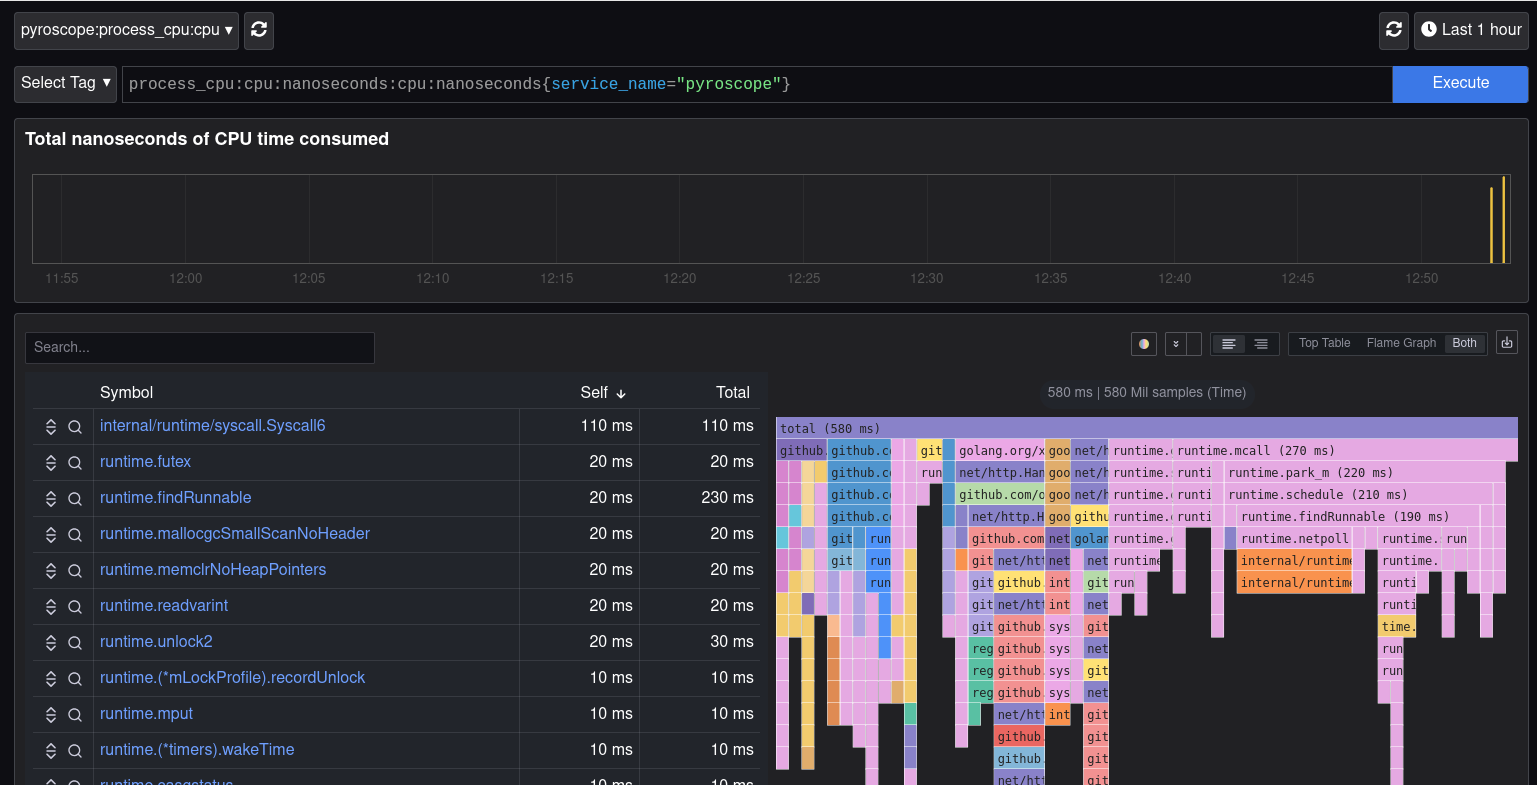
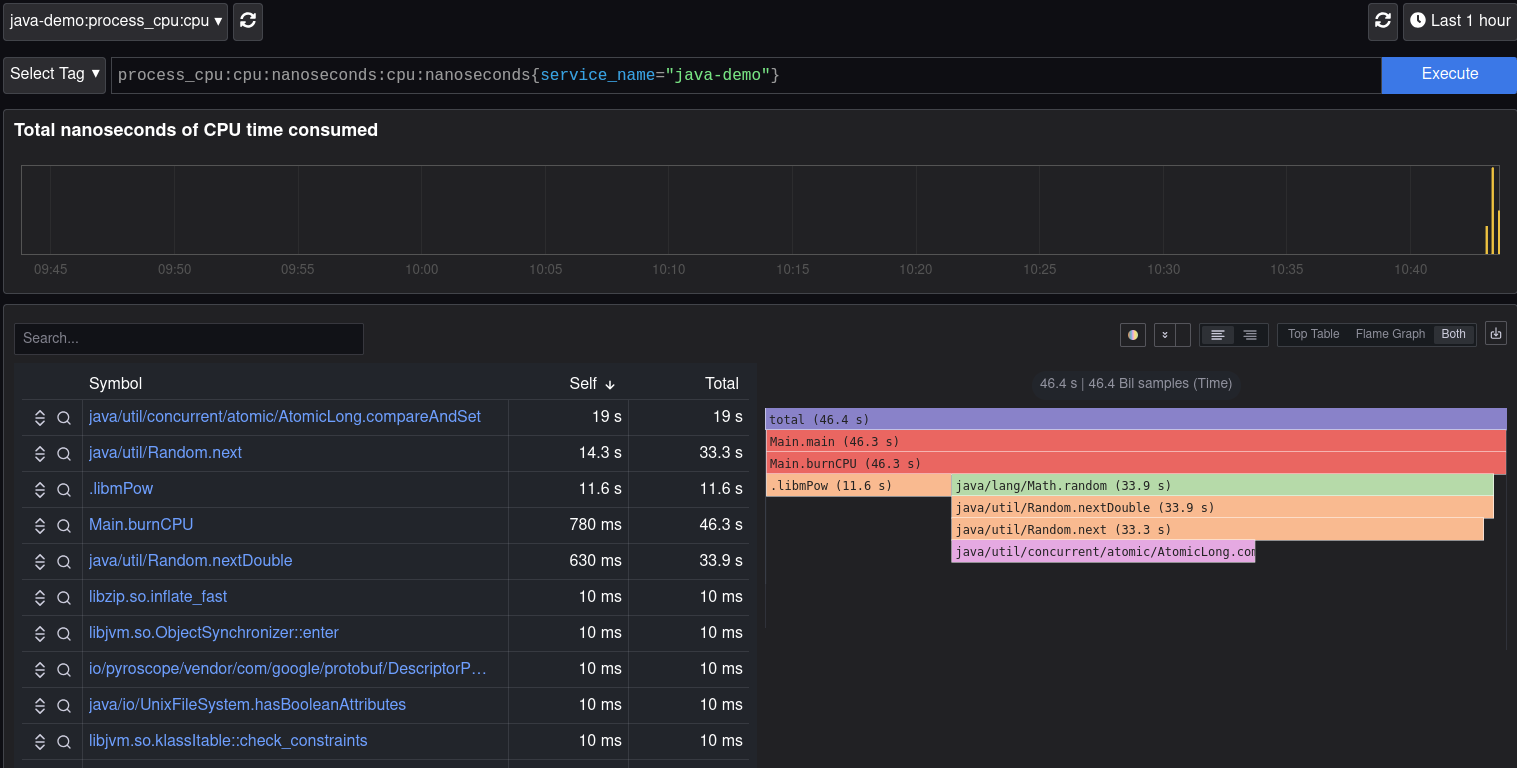
V2 (#1) Updated to profile java-demo specifically

diff --git a/README.md b/README.md
@@ -1,19 +1,25 @@
-# 📘 Observability POC — eBPF Flamegraphs for Java in Kubernetes
+# 📘 Observability POC — CPU Flamegraphs for Java in Kubernetes (Pyroscope)
 
-This POC demonstrates how to collect **real-time call-stack flamegraphs** from **Java applications running inside Kubernetes pods** using **eBPF-based continuous profiling**.  
+**Note:** This POC currently demonstrates CPU profiling using the **Pyroscope Java agent**.  
+eBPF DaemonSet profiling is included in the repo for later adoption in hardened clusters and production-grade setups. Both paths are supported in design. 
+
 It is designed to model a **real-world banking production environment targeting RHEL9** while being fully runnable on **Ubuntu or any Linux laptop**.
 
 ![POC Flamegraph Screenshot](./screenshot.png)
 
 ## 🔧 Features
 
-- eBPF-powered continuous profiling  
-- Zero instrumentation (no JVM agents required)  
-- JVM JIT + Native stack tracing  
-- Kubernetes-aware container attribution  
-- Full flamegraphs (CPU, time-diff, trends)  
-- Lightweight sample Java workload  
-- Pyroscope UI for visualization  
+- Pyroscope-based CPU flamegraphs for Java workloads
+- Kubernetes deployment automation
+- Lightweight sample Java workload
+- Pyroscope UI for visualization
+- Works without code changes to the Java app
+
+### Optional/Advanced (included for future or hardened clusters)
+- eBPF-powered continuous profiling (no JVM agent required)
+- JVM JIT + Native stack tracing
+- Kubernetes-aware container attribution
+- Production-oriented RHEL9 compatibility path 
 
 ## 📂 Repository Structure
 
@@ -28,13 +34,15 @@ observability-poc/
 │   ├── Dockerfile
 │   └── build.sh
 ├── scripts/
+│   ├── reset_demo.sh
 │   ├── load-generator.sh
 │   ├── port-forward-pyroscope.sh
 │   └── verify-ebpf.sh
 └── README.md
+
 ```
 
-## 🚀 1. Prerequisites
+## 🚀 Prerequisites
 
 ### Local Machine
 - Linux laptop (Ubuntu recommended)
@@ -48,44 +56,66 @@ observability-poc/
 ./scripts/verify-ebpf.sh
 ```
 
-## 📦 2. Build the Java Demo App
+## Reset + Rebuild + Deploy (automated)
 
-```
-cd java-demo
-./build.sh
-```
+> This creates a kind cluster if one doesn't already exist, builds the Java image,
+> loads it into kind, deploys Pyroscope and the java-demo workload, and port-forwards
+> the UI automatically.
 
-## 📡 3. Start Kubernetes Cluster
-
-### Using Kind
-```
-kind create cluster
+```bash
+./scripts/reset_demo.sh
 ```
 
-### Using Minikube
-```
-minikube start --driver=docker
-```
-
-## 📥 4. Deploy Pyroscope Server
+When the script completes, open Pyroscope:
 
 ```
-kubectl apply -f k8s/pyroscope-server.yaml
+http://localhost:4040
 ```
 
-## 🐝 5. Deploy Pyroscope eBPF Agent DaemonSet
+---
 
-```
-kubectl apply -f k8s/pyroscope-daemonset.yaml
-```
+## 🔥 Generate CPU Load
 
-## ☕ 6. Deploy Java Demo Workload
+In a second terminal:
 
-```
-kubectl apply -f k8s/java-demo-deployment.yaml
+```bash
+./scripts/load-generator.sh
 ```
 
-## 🌐 7. Access Pyroscope UI
+You should start seeing `java-demo` flamegraphs within ~5–10 seconds.
+
+Profiling output will show functions such as:
+
+- `Main.burnCPU()`
+- `java.util.Random.next*`
+- atomic operations (`compareAndSet`)
+- mathematical calls (`libmPow`, etc.)
+
+---
+
+## Manual Commands (if needed)
+
+### Build & load image to kind manually
+
+```bash
+docker build -t java-demo:latest java-demo
+kind load docker-image java-demo:latest --name observability-demo
+```
+
+### Apply Kubernetes manifests
+
+```bash
+kubectl apply -f k8s/pyroscope-server.yaml -n observability-demo
+kubectl apply -f k8s/java-demo-deployment.yaml -n observability-demo
+```
+
+### Port-forward UI manually
+
+```bash
+kubectl port-forward svc/pyroscope 4040:4040 -n observability-demo
+```
+
+## 🌐 Access Pyroscope UI
 
 ```
 ./scripts/port-forward-pyroscope.sh
@@ -93,7 +123,7 @@ kubectl apply -f k8s/java-demo-deployment.yaml
 
 Go to: http://localhost:4040
 
-## 🔥 8. View Flamegraphs
+## 🔥 View Flamegraphs
 
 Pyroscope will automatically show:
 
@@ -101,29 +131,17 @@ Pyroscope will automatically show:
 - Time-Diff Flamegraph  
 - Table View  
 
-## 🧪 9. Optional: Add Load
-
-```
-./scripts/load-generator.sh
-```
-
-## 🛠 10. RHEL9 Compatibility Notes
+## 🛠 RHEL9 Compatibility Notes
 
 - Ensure BTF available  
 - SELinux considerations  
 - Privileged DaemonSet requirements  
 
-## 🧩 11. Troubleshooting
+## 📊 Comparison With Other Profiling Methods
 
-- Missing BTF  
-- Missing Java symbols  
-- Empty Pyroscope profiles  
+(TODO eBPF vs JFR vs async-profiler comparison table)
 
-## 📊 12. Comparison With Other Profiling Methods
-
-(eBPF vs JFR vs async-profiler comparison table)
-
-## 🏦 13. Bank Stakeholder Summary
+## 🏦 Stakeholder Summary
 
 ### Benefits
 - Zero instrumentation  
@@ -136,7 +154,8 @@ Pyroscope will automatically show:
 - SELinux blocking  
 - Kernel mismatches  
 
-## 🎯 14. Summary
+## 🎯 Summary
 
-A full eBPF-based continuous profiling POC that models production banking environments.
+A Java CPU observability POC using Pyroscope, with both **Java agent mode (default demo)** 
+and **eBPF DaemonSet mode (designed for RHEL9 production environments)**.
 
